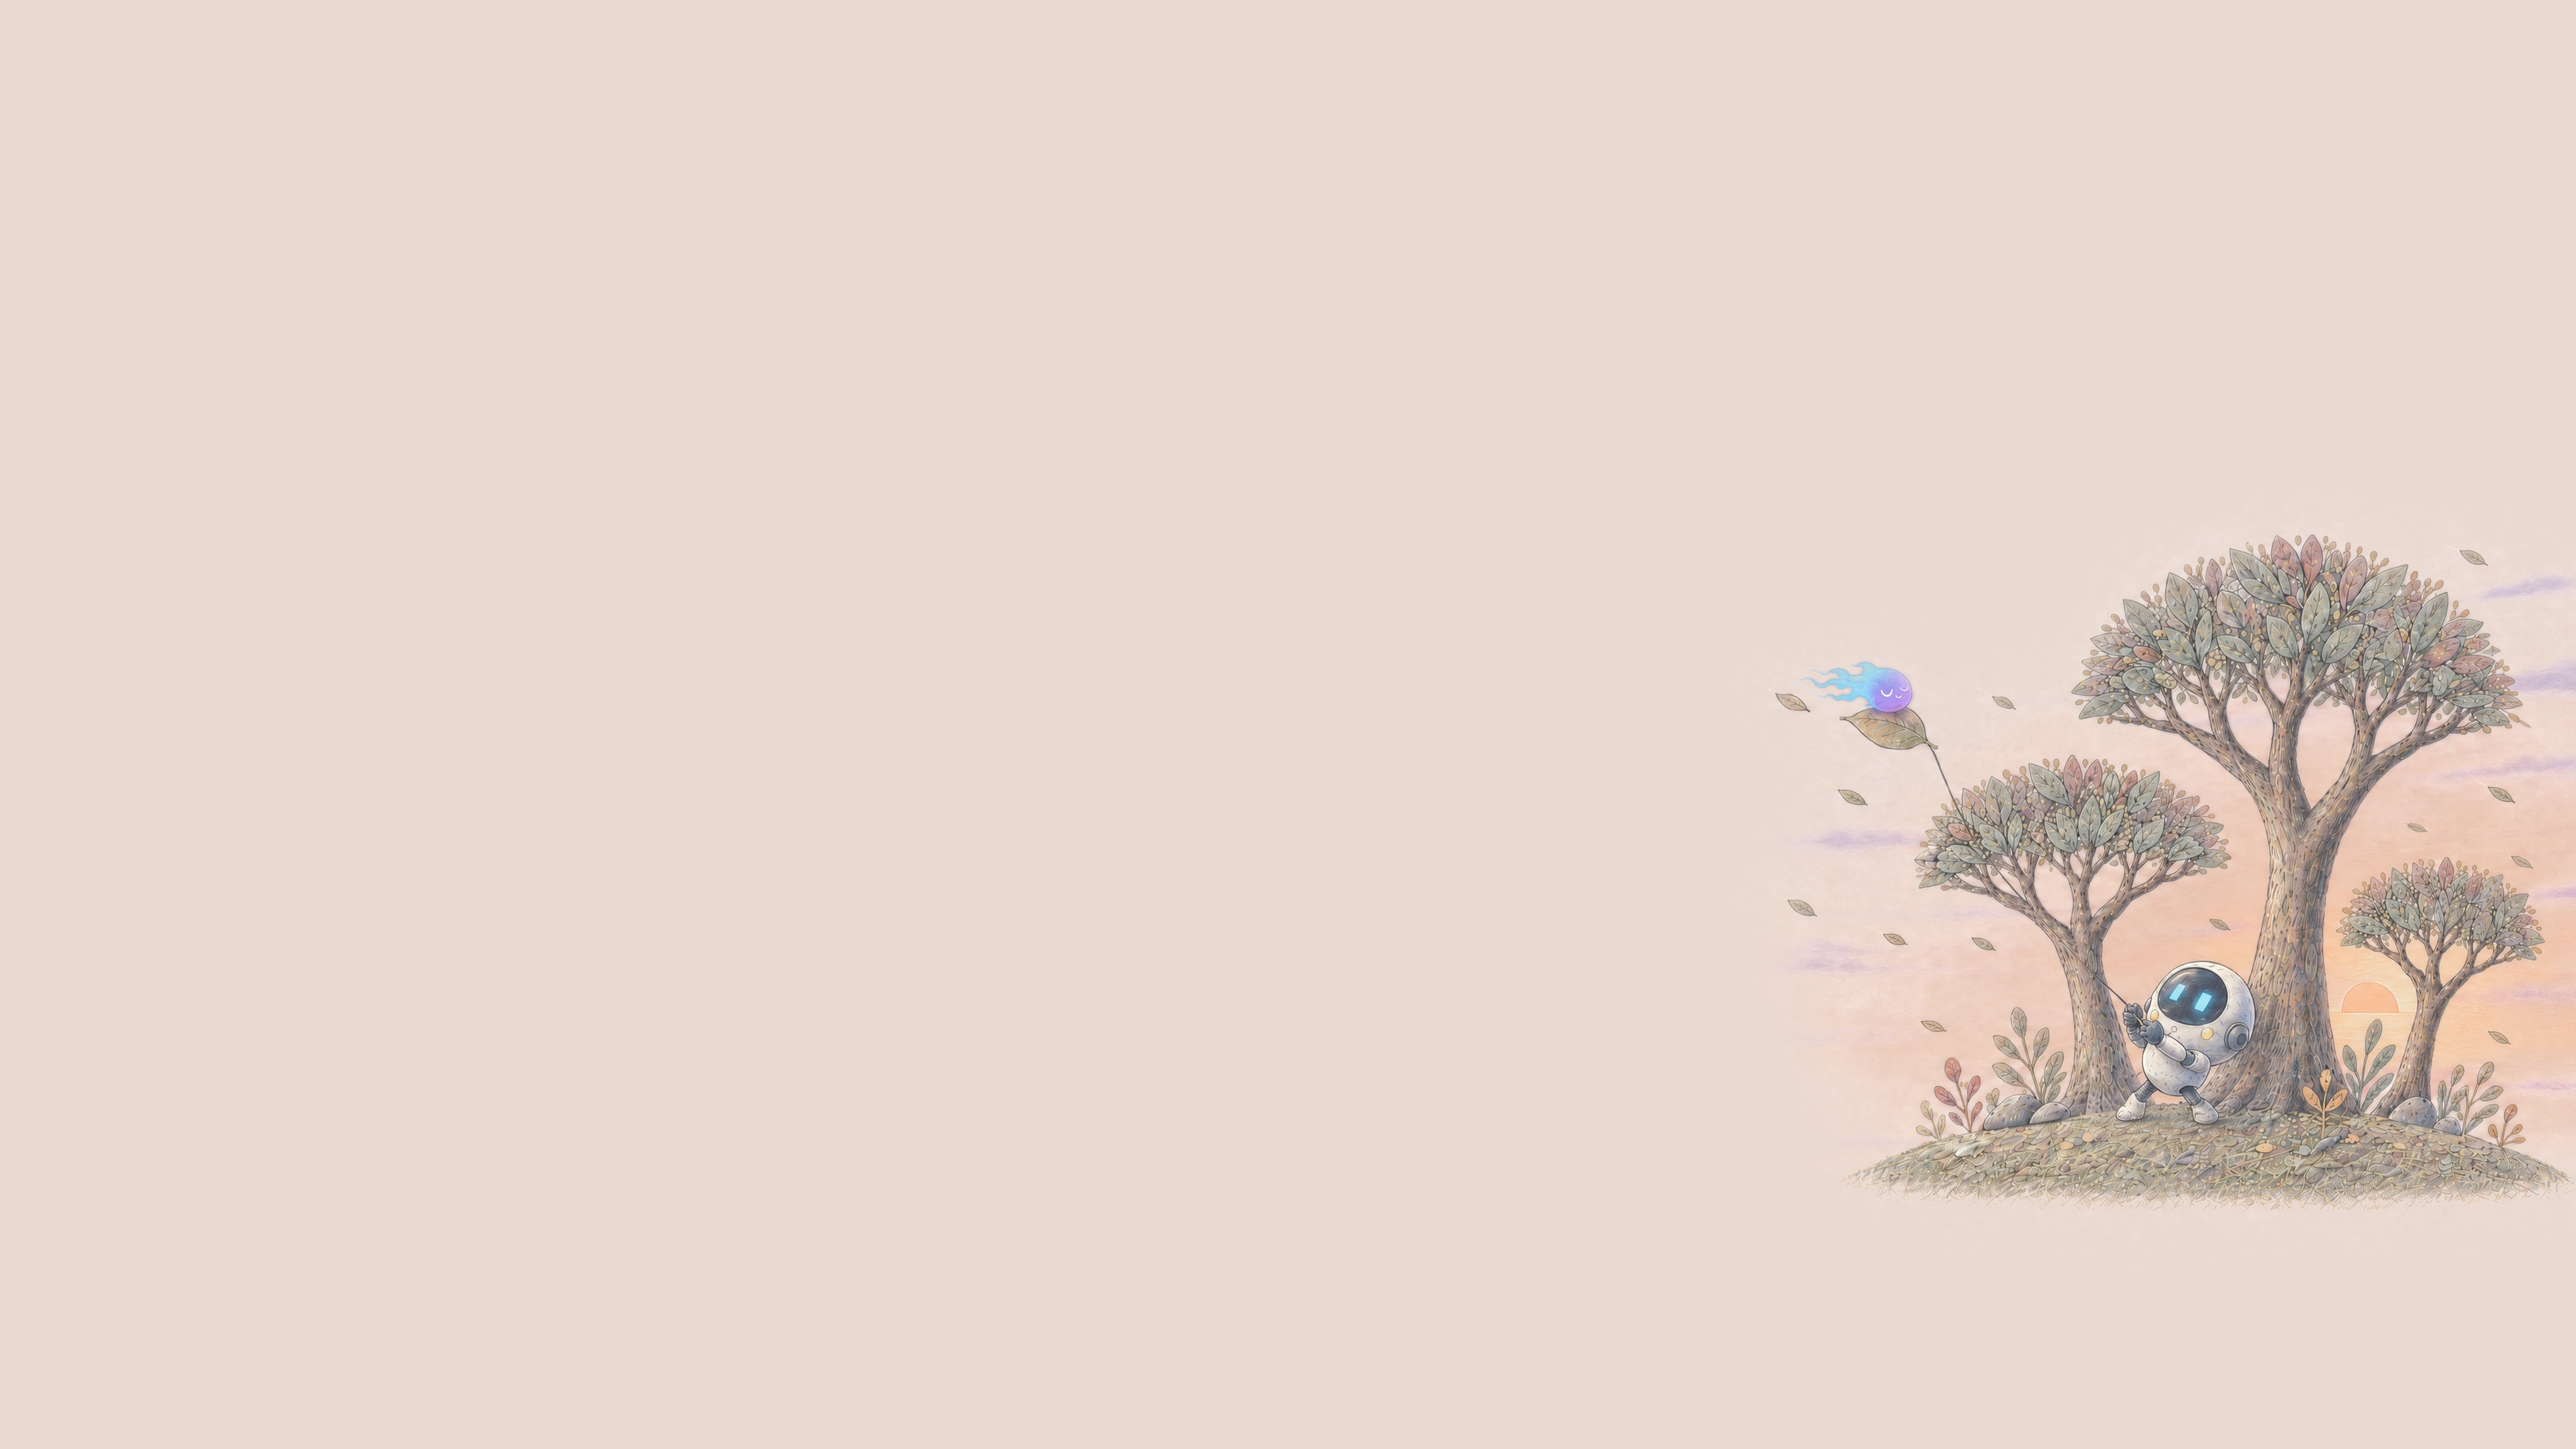
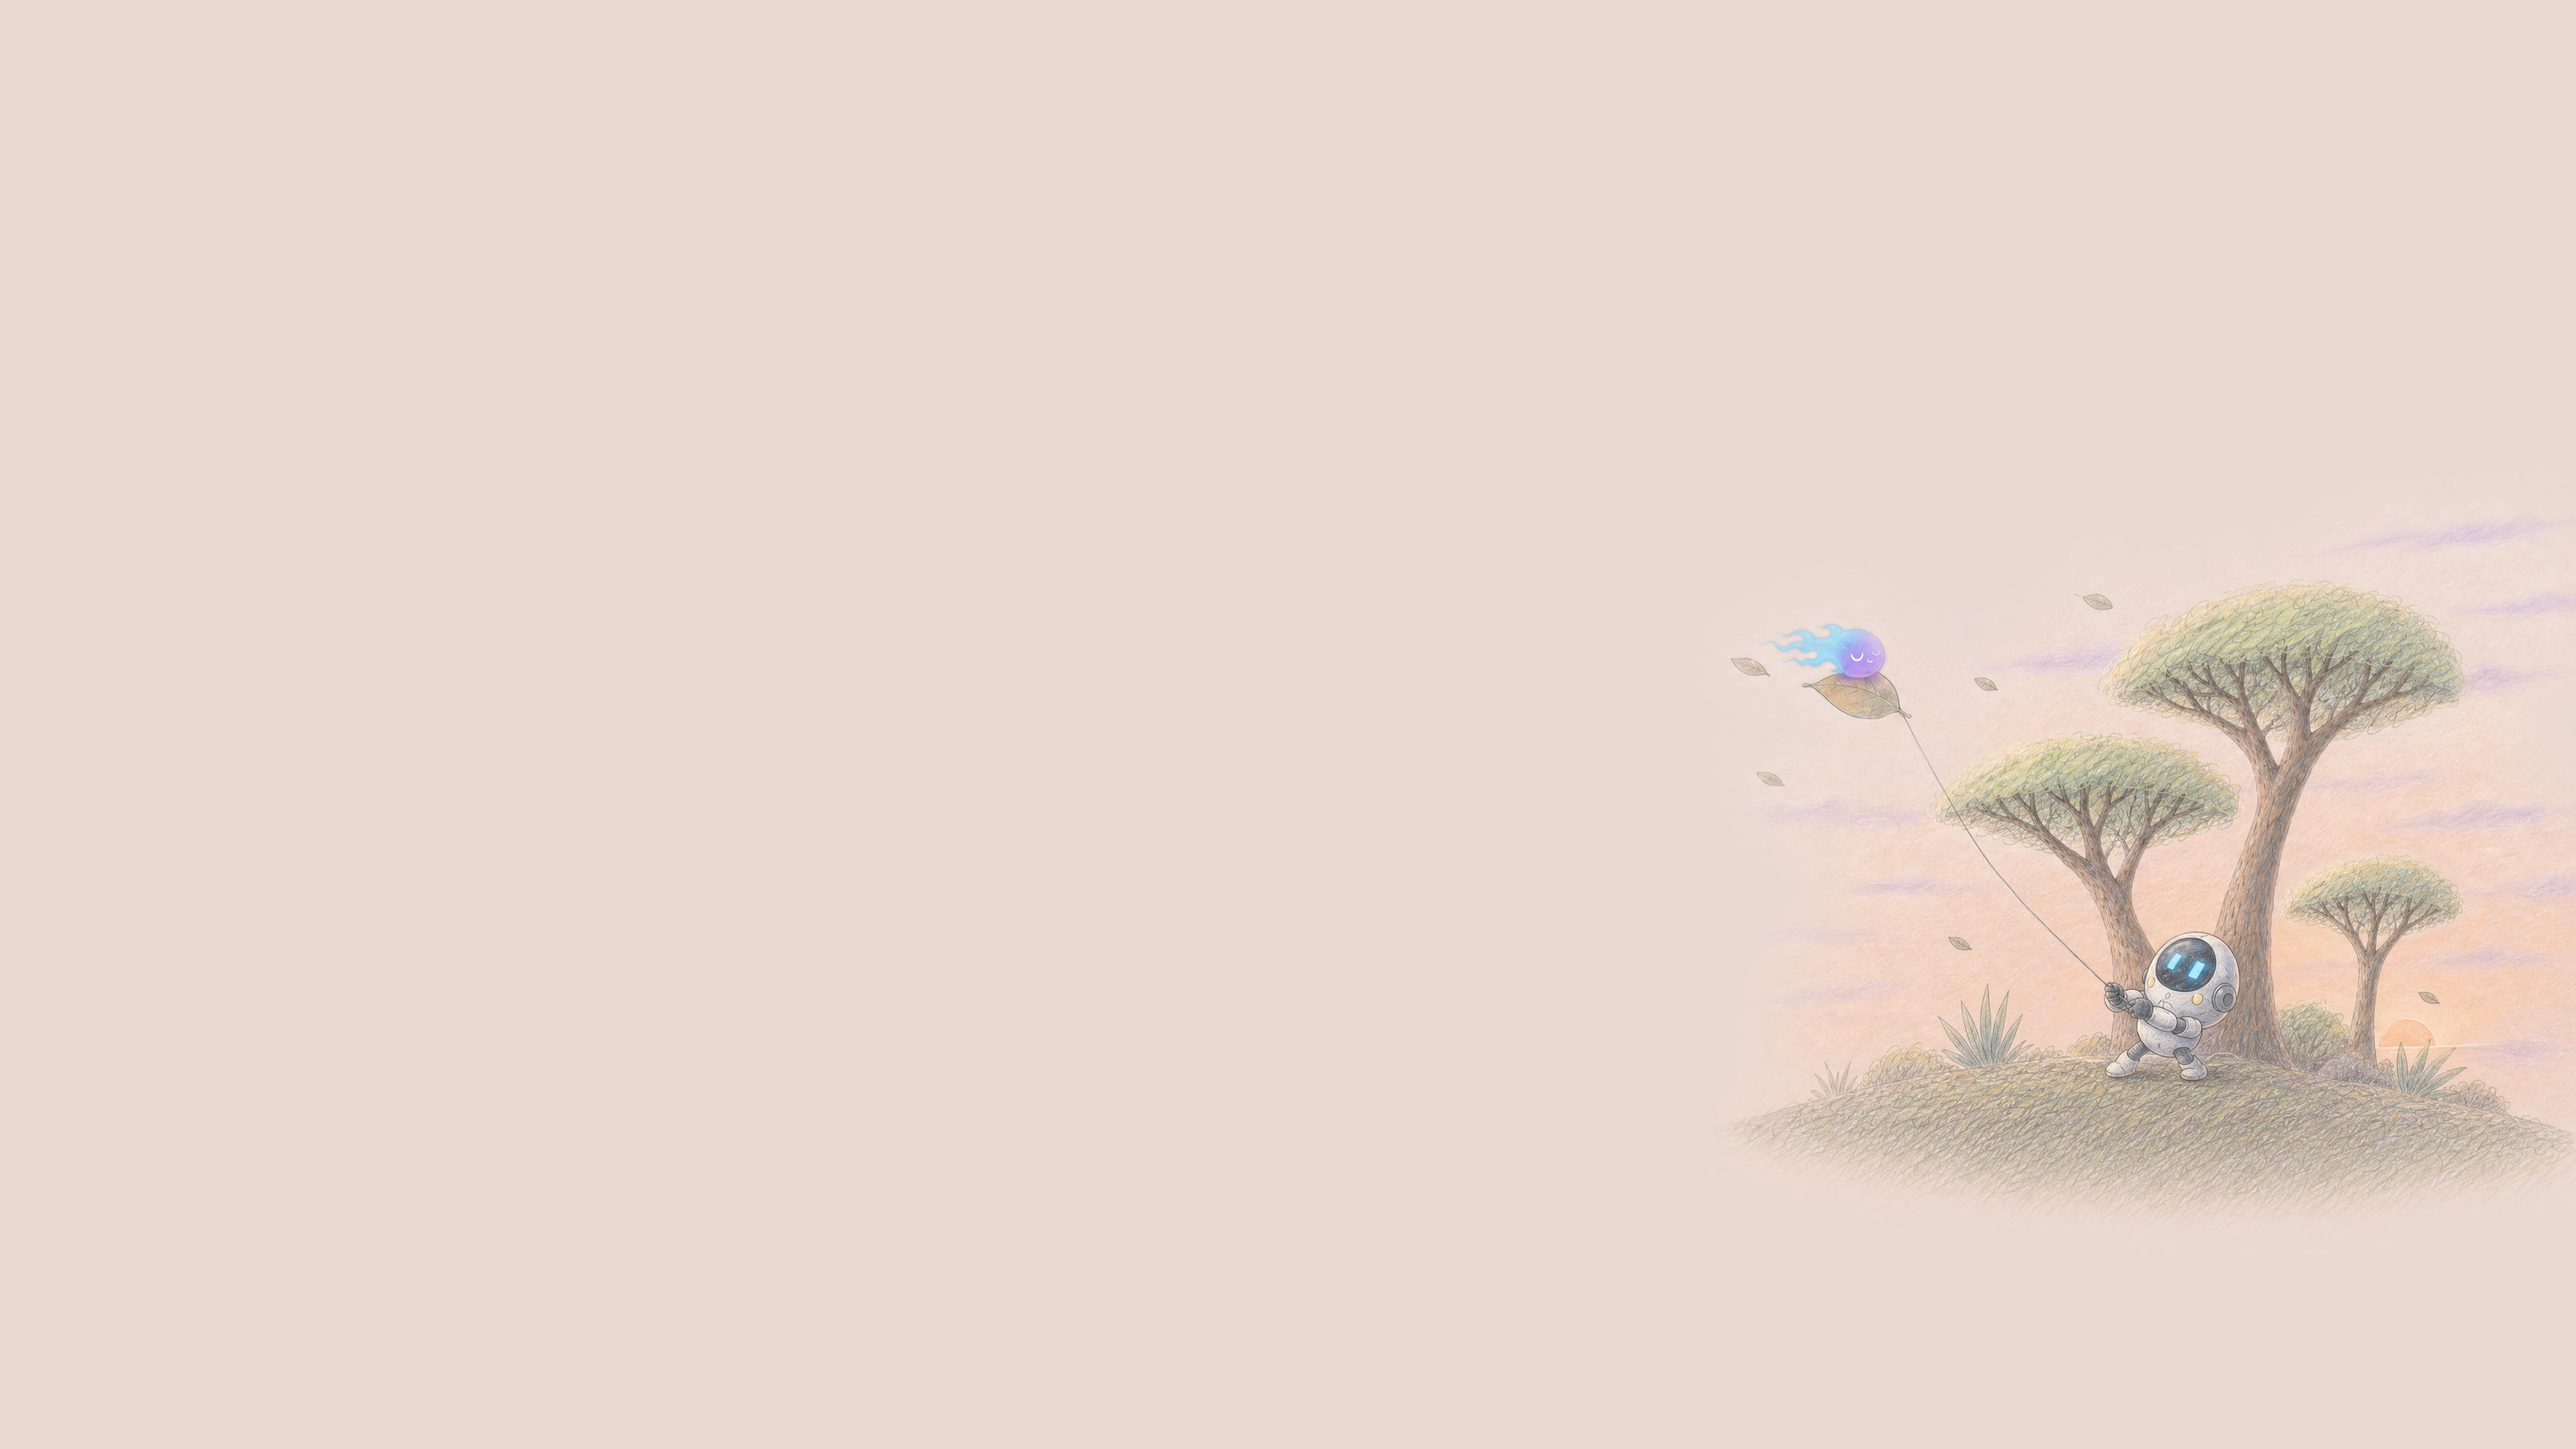
✨ feat(wallpaper): move the kite story into the grove
- ✨ Draw the day wallpaper from Nightfall's grove so the pair shows one
  place at night and at sunrise
- 📝 Describe how the picture was made

Claude-Session: https://claude.ai/code/session_01KcMBmdTUYPsxUBktRW77dF

Changed region(s): [[0.6875, 0.3722, 1.0, 0.8375], [0.6875, 0.4343, 0.75, 0.5273]]

diff --git a/README.md b/README.md
@@ -1,6 +1,6 @@
 # Monokai Daybreak for Omarchy
 
-![Monokai Daybreak on Omarchy: Neovim, a terminal and btop beside the default wallpaper of Pululu flying a kite at sunrise](screenshots/desktop.webp)
+![Monokai Daybreak on Omarchy: Neovim, a terminal and btop beside the default wallpaper of Pululu flying a kite in the grove at sunrise](screenshots/desktop.webp)
 
 Monokai Daybreak is an unofficial light Omarchy theme, installed as
 `monokai-daybreak`. It uses the [Monokai Pro](https://monokai.pro/) Light
@@ -76,10 +76,11 @@ generation from the palette above, as one low-contrast picture around a
 rose-mist `#ead9d2`. Its colours were then adjusted with ImageMagick so the sky
 sits exactly on that tone, and the scene was blended into a flat `#ead9d2`
 outside the area Nightfall's horizon covers, so it runs seamlessly behind the
-cream windows. The default wallpaper, `1-kite.webp`, shows the robot Pululu
-flying a leaf kite at sunrise with the flame spirit Spark riding on it. It was
-drawn at 2560×1440 with OpenAI's `gpt-image-2` from an earlier Codex scene,
-colour-matched to Nightfall's grove palette, blended into the same flat
-`#ead9d2` and placed at its native size on a 3840×2160 sheet of that colour, so
-the scene stays sharp and small. Monokai Daybreak is not affiliated with or endorsed by Monokai, the
-maker of Monokai Pro.
+cream windows. The default wallpaper, `1-kite.webp`, is Nightfall's grove at
+sunrise, where the robot Pululu flies a leaf kite with the flame spirit Spark
+riding on it. OpenAI's `gpt-image-2` drew it at 2560×1440 from Nightfall's
+default wallpaper, in the light and palette of the horizon wallpaper. It was
+blended into the same flat `#ead9d2` and sits at its native size on a
+3840×2160 sheet of that colour, so the scene stays sharp and small. Monokai
+Daybreak is not affiliated with or endorsed by Monokai, the maker of Monokai
+Pro.
